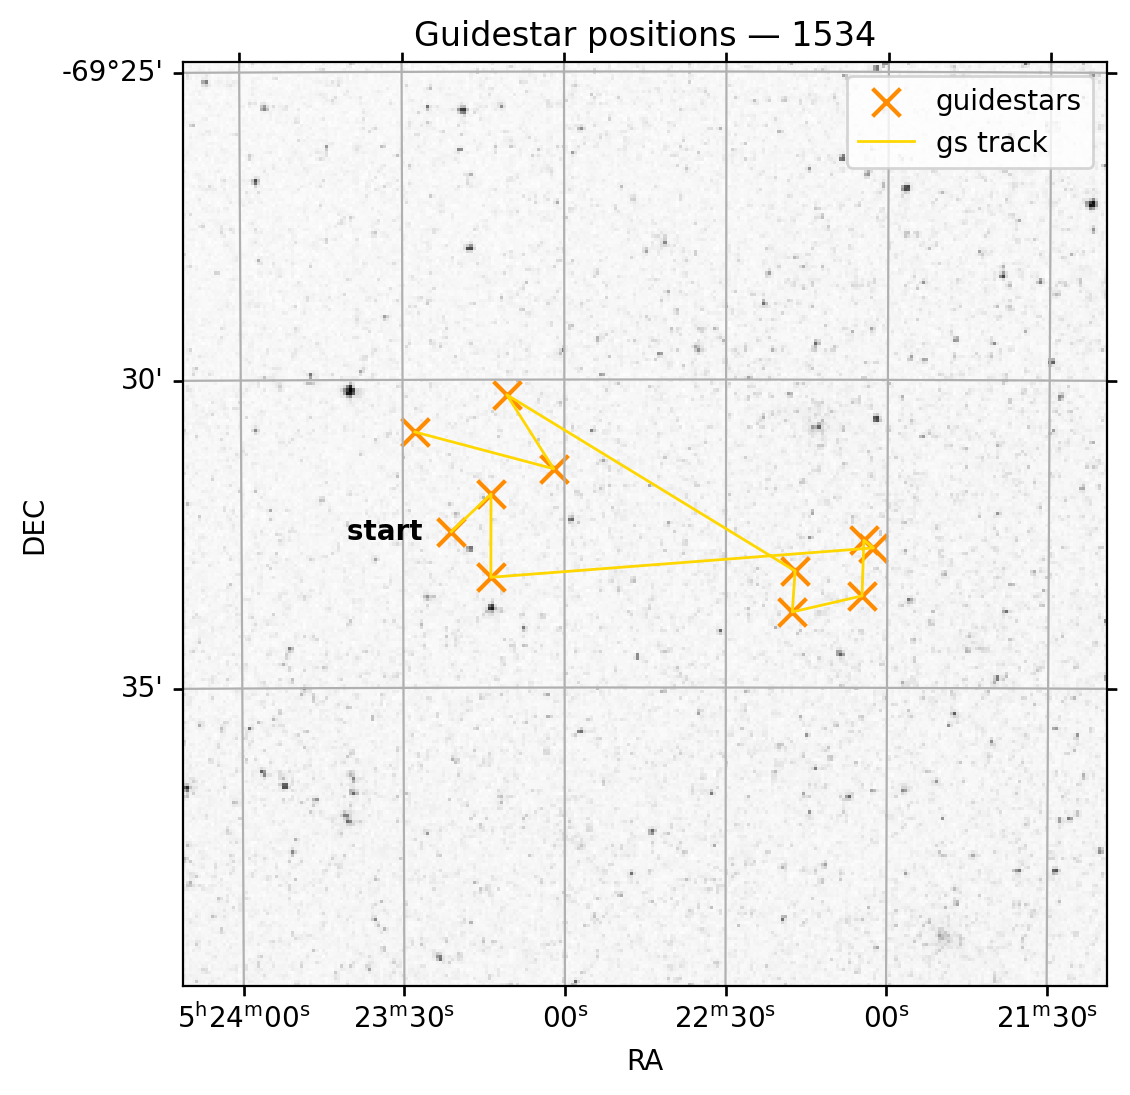
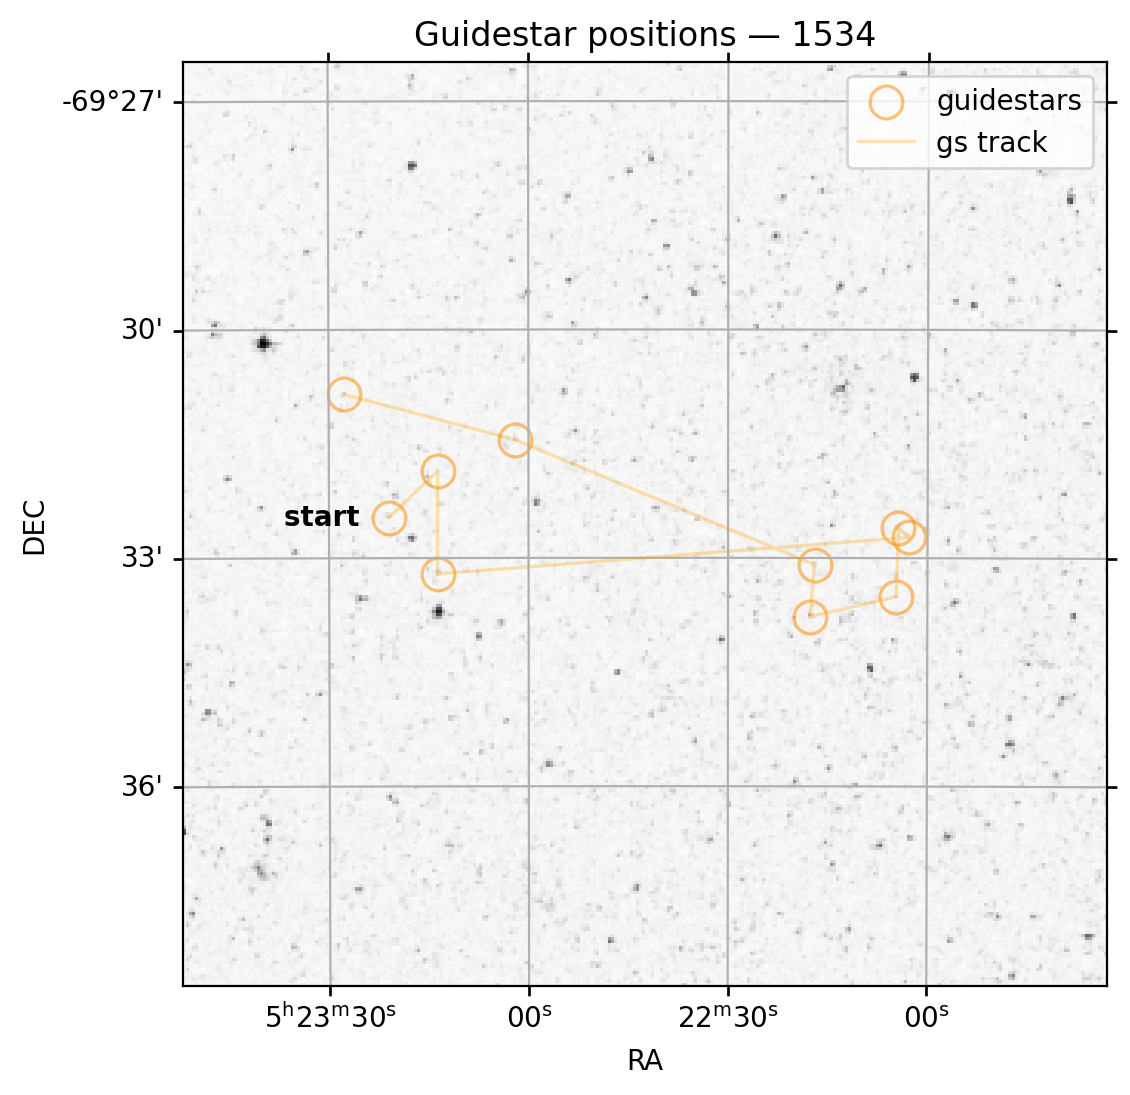
guidestar_plot changes

diff --git a/src/spelunker.py b/src/spelunker.py
@@ -1462,7 +1462,9 @@ class load:
 
             This function returns a matplotlib ``axes`` object of the guidestar plot. Additionally, the function outputs guidestar track plot.
         '''
-        coords = SkyCoord(self.object_properties['ra'], self.object_properties['dec'], unit='deg')
+        filted_properties = self.object_properties[self.object_properties['ra'].astype(bool)]
+
+        coords = SkyCoord(filted_properties['ra'], filted_properties['dec'], unit='deg')
         target = SkyCoord(np.mean(coords.ra),np.mean(coords.dec),unit='deg')
 
         distance = []
@@ -1470,8 +1472,8 @@ class load:
             distance.append(np.sqrt(  (target.ra.value - coord.ra.value)**2
                                 + (target.dec.value - coord.dec.value)**2  ))
 
-        fov_radius = np.mean(distance)*u.deg + 2.5*np.std(distance)*u.deg
-        fov_radius = 4 * u.deg if fov_radius > 4 * u.deg else fov_radius
+        fov_radius = 0.5*np.mean(distance)*u.deg + 1*np.std(distance)*u.deg
+        fov_radius = 3 * u.deg if fov_radius > 3 * u.deg else fov_radius
 
         if fov_radius.value == 0: fov_radius = 2*u.deg # from https://github.com/GalagaBits/JWST-FGS-Spelunker/issues/19
 
@@ -1480,8 +1482,8 @@ class load:
 
         ax1.set_axis_off()
 
-        ax.scatter(coords.ra, coords.dec,  color='darkorange', marker='x', s=100, linewidth=1.5, transform=ax.get_transform('fk5'), label='guidestars')
-        ax.plot(coords.ra, coords.dec,  color='gold', linewidth=1, transform=ax.get_transform('fk5'), label='gs track')
+        ax.scatter(coords.ra, coords.dec,  color='darkorange',marker='$\u25EF$', s=160, linewidth=0.5, alpha=0.4, transform=ax.get_transform('fk5'), label='guidestars')
+        ax.plot(coords.ra, coords.dec,  color='orange', linewidth=1.2, alpha = 0.3, transform=ax.get_transform('fk5'), label='gs track')
         ax.text(coords.ra[0].value, coords.dec[0].value, s='start   ', horizontalalignment='right' , verticalalignment='center', weight='bold', transform=ax.get_transform('fk5'),)
 
         ax.set_title("Guidestar positions — "+str(self.pid))

diff --git a/docs/index.rst b/docs/index.rst
@@ -42,7 +42,7 @@ For a quick start on how to use spelunker, go to the :doc:`Quickstart guide <sim
    Quickstart <simple_quickstart>
    Time Series Observations (TSO) <timeseries_observations>
    Engineering Telemetry <engineering_telemetry>
-   Spelunker Tools <user/fgs-spelunker_quickstart>
+   Exploring Spelunker tools and features <user/fgs-spelunker_quickstart>
    API <api>
 
 
